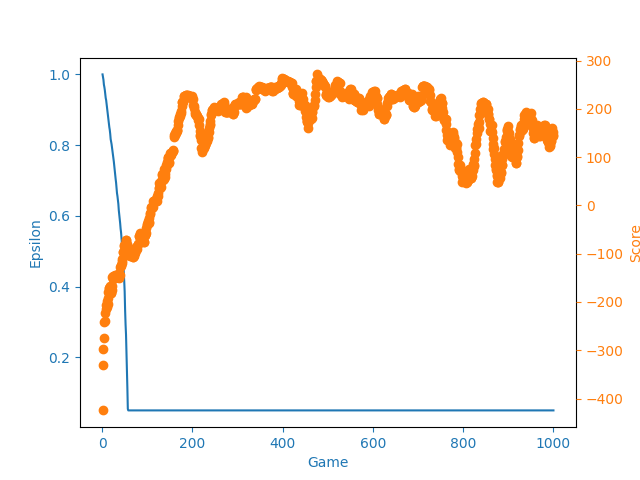
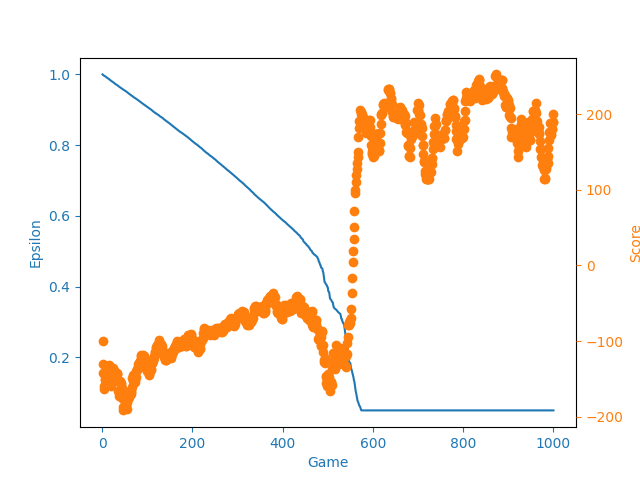
DQN tweekings

diff --git a/Tutorials/Gymnasium/Mini projects/Deep Q-Learning/Torch/DQN memory/Train.py b/Tutorials/Gymnasium/Mini projects/Deep Q-Learning/Torch/DQN memory/Train.py
@@ -1,7 +1,7 @@
 import gymnasium as gym
 import numpy as np
 from utils import plotLearning
-from DQN_q_eval import Agent
+from DQN_q_twoNetworks import Agent
 import json
 
 with open('params.json', 'r') as f:
@@ -17,7 +17,6 @@ lr = params["lr"]
 max_memory = params["max_memory_size"]
 model_path = params["model_path"]
 agent_path = params["agent_path"]
-
 if __name__ == '__main__':
     env = gym.make('LunarLander-v2')
     agent = Agent(gamma=gamma,

diff --git a/Tutorials/Gymnasium/Mini projects/Deep Q-Learning/Torch/DQN memory/Test.py b/Tutorials/Gymnasium/Mini projects/Deep Q-Learning/Torch/DQN memory/Test.py
@@ -2,7 +2,7 @@ import matplotlib
 matplotlib.use('TkAgg')  # or 'Qt5Agg' if you prefer Qt
 import matplotlib.pyplot as plt
 import gymnasium as gym
-from DQN_q_eval import Agent
+from DQN_q_twoNetworks import Agent
 import json
 import pickle
 with open('params.json', 'r') as f:
